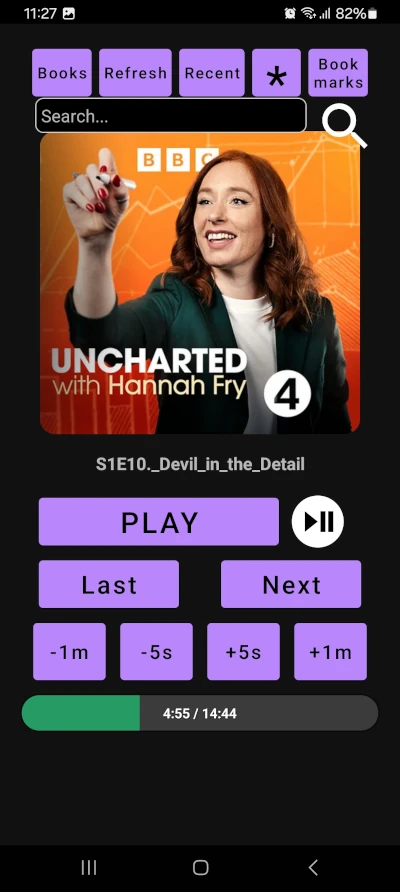
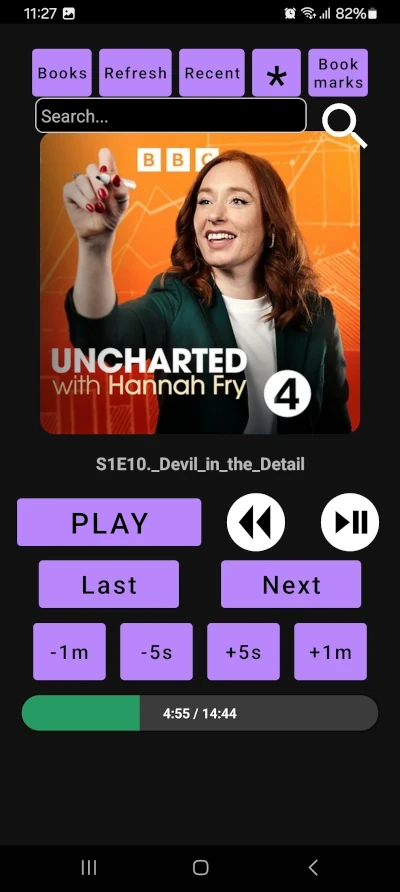
Cover image can no play/pause. README update.

Changed region(s): [[0.18, 0.5448, 0.96, 0.6357], [0.03, 0.5448, 0.12, 0.6357]]

diff --git a/app/src/main/java/com/daveswaves/audioapp/MainFragment.kt b/app/src/main/java/com/daveswaves/audioapp/MainFragment.kt
@@ -18,6 +18,7 @@ import androidx.activity.result.ActivityResultLauncher
 import androidx.activity.result.contract.ActivityResultContracts
 // import androidx.appcompat.app.AppCompatActivity // Required for finishAffinity() [ close app ]
 import androidx.fragment.app.Fragment
+import androidx.cardview.widget.CardView
 import android.widget.ProgressBar
 import kotlin.math.roundToInt
 
@@ -50,6 +51,7 @@ class MainFragment : Fragment(R.layout.fragment_main) {
     // UI components
     private lateinit var chapterTitle: TextView
     private lateinit var playButton: Button
+    private lateinit var coverCard: CardView
     private lateinit var mainImage: ImageView
     private lateinit var chapterProgressBar: ProgressBar
     private lateinit var timeDisplay: TextView
@@ -124,6 +126,7 @@ class MainFragment : Fragment(R.layout.fragment_main) {
     private fun initializeViews(view: View) {
         chapterTitle = view.findViewById(R.id.chapterTitle)
         playButton = view.findViewById(R.id.playButton)
+        coverCard = view.findViewById(R.id.coverCard)
         mainImage = view.findViewById(R.id.myImageView)
         chapterProgressBar = view.findViewById(R.id.chapterProgressBar)
         timeDisplay = view.findViewById(R.id.timeDisplay)
@@ -163,6 +166,10 @@ class MainFragment : Fragment(R.layout.fragment_main) {
         }
 
         playButton.setOnClickListener {
+            if (isPlaying) pauseAudio() else startOrResumeAudio()
+        }
+
+        coverCard.setOnClickListener {
             if (isPlaying) pauseAudio() else startOrResumeAudio()
         }
 

diff --git a/README.md b/README.md
@@ -28,6 +28,15 @@ The objective was to build an audio book app (plays local audio files) that has 
 ## Main View
 ![image](docs/01_main.webp)
 
+### Notes:
+* The book cover image also doubles as a play/pause button. Also updates 'PLAY' / 'PAUSE' on play button.
+* Hold the chapter title also has the same affect as the rewind icon.
+* The play/pause icon pauses the audio at the end of a chapter.
+
+### Bugs
+* Pressing the PAUSE button during play does not update the progress bar.
+* Pressing the rewind icon does not also reset the play position back to the start of a chapter (may need to press play beforehand).
+
 ## Select View
 ![image](docs/02_select.webp)
 
